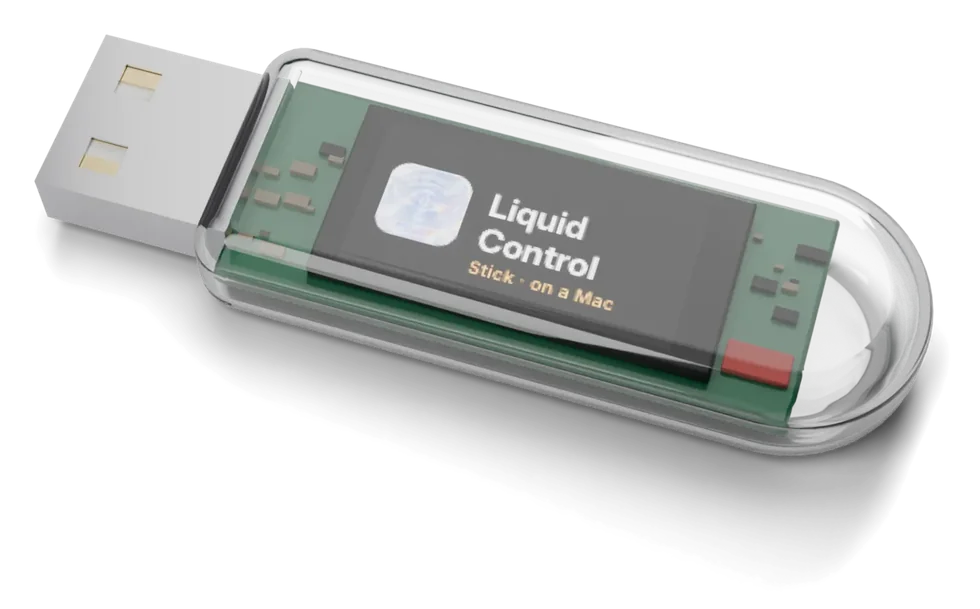
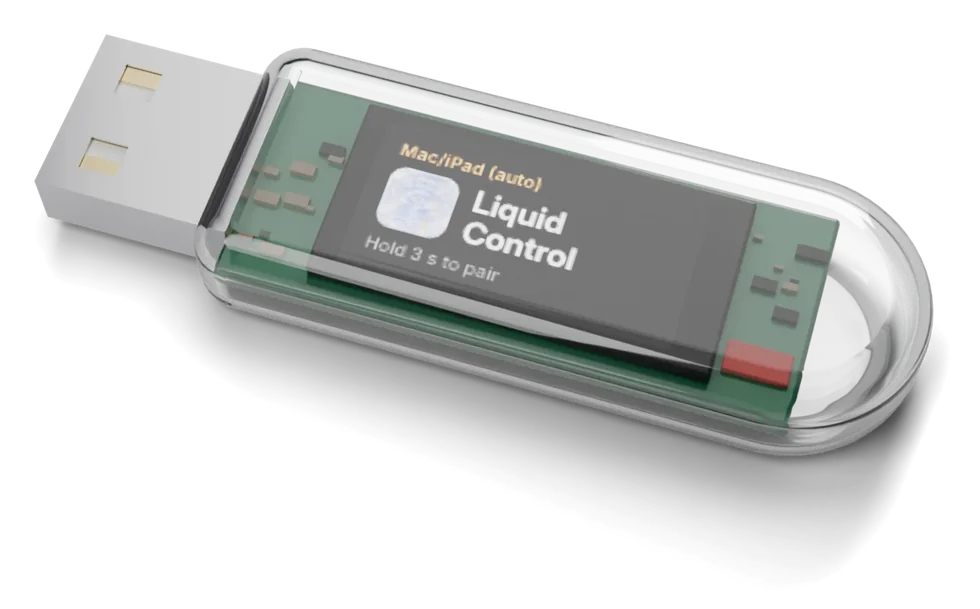
The Stick: its renders show the screens the firmware has, with a six-digit code
The four renders showed the first design: a four-digit code, "Check this code on your phone", "iPhone" and "Typing
into your Mac", none of which the firmware shows. They now show the designs in the apps' docs/hardware/stick-screens:
the host line, "472 913" with "Same code? Press to pair", "Phone" with "Connected, 1 paired", and "Watch+Phone" on
Windows. The 3D scene that made them isn't kept, so each new 160 x 80 screen is mapped onto the old renders' screen,
with its place and its colours (as the case and the render's colour response show them) fitted from the four old
renders and the old designs, and the old screens' light taken out. Same names and sizes; the 980 px set is the
1400 px one made smaller, as before. The figure's description says what the screens show now.

Claude-Session: https://claude.ai/code/session_01P3Yxo3byFysVfxR2xZLNBZ

Changed region(s): [[0.3673, 0.2184, 0.6429, 0.5304]]

diff --git a/index.html b/index.html
@@ -213,7 +213,7 @@
     <section class="section wrap" id="stick" aria-labelledby="stick-title">
       <div class="stick glass">
         <figure class="stick-art">
-          <div class="stick-renders" role="img" aria-label="The Liquid Control Stick: a clear USB stick with a small screen. The screen cycles through Liquid Control, a pairing code to check on your phone, Connected to an iPhone and typing into a Mac, and a Watch and an iPhone typing into a PC.">
+          <div class="stick-renders" role="img" aria-label="The Liquid Control Stick: a clear USB stick with a small screen. The screen cycles through Liquid Control, a six-digit pairing code to compare with your phone’s, a phone connected to a Mac, and a watch and a phone connected to a PC.">
             <img src="assets/stick-1-start-980.webp" srcset="assets/stick-1-start-980.webp 980w, assets/stick-1-start.webp 1400w"
               sizes="(min-width: 860px) 444px, calc(100vw - 80px)" width="1400" height="870" alt="" loading="lazy" decoding="async">
             <img src="assets/stick-2-pair-980.webp" srcset="assets/stick-2-pair-980.webp 980w, assets/stick-2-pair.webp 1400w"
